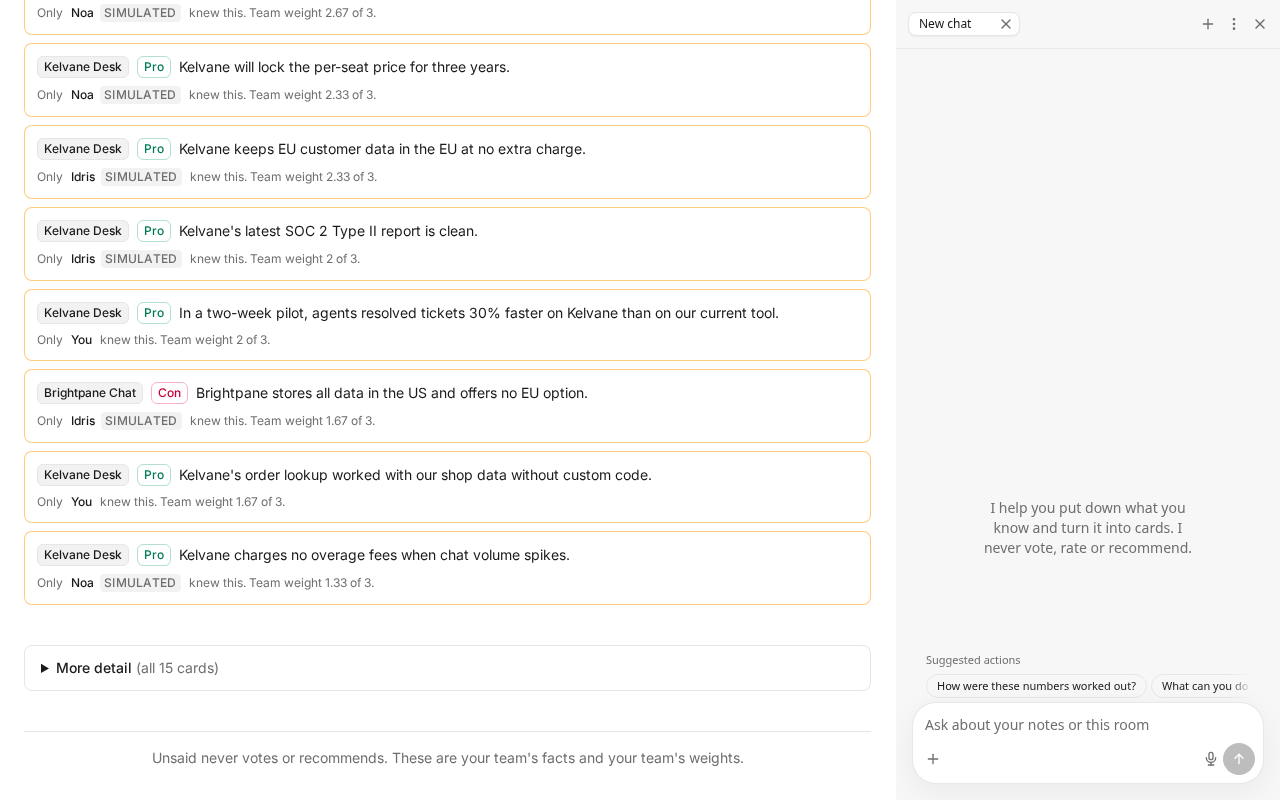
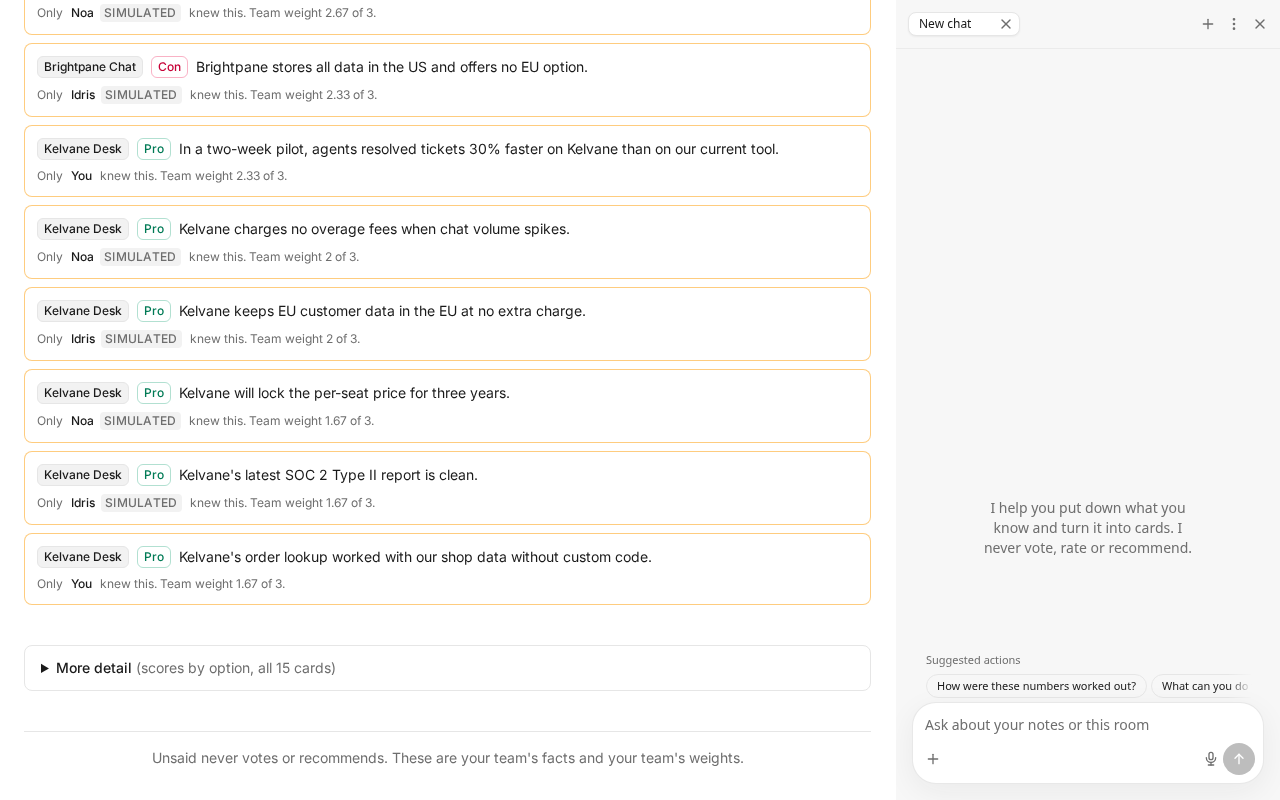
Reveal: move Scores by option into More detail
The proof grid above already shows the full-ledger scores, who leaned where and the votes; the table repeated them at full size. It now sits at the top of the closed More detail, whose summary says so. Every test id is kept. practice and live e2e open More detail before reading the table. Three README screenshots re-taken.

Claude-Session: https://claude.ai/code/session_01GAS3TwEvq8rdhgJTGSQMuH

diff --git a/app/components/unsaid/RevealPhase.tsx b/app/components/unsaid/RevealPhase.tsx
@@ -271,57 +271,11 @@ export function RevealPhase() {
   // The viewer's own column first, then the others in the room's order.
   const columns = [...rv.members].sort((a, b) => Number(b.id === v.id) - Number(a.id === v.id));
   const topShared = rv.sharedRanking.groups[0]?.options ?? [];
-  const inside = [alone && "alone check", guess && "guess who", rv.cards.length ? `all ${rv.cards.length} cards` : ""].filter(Boolean).join(", ");
+  const inside = ["scores by option", alone && "alone check", guess && "guess who", rv.cards.length ? `all ${rv.cards.length} cards` : ""].filter(Boolean).join(", ");
 
   return (
     <div className="space-y-10" data-testid="reveal">
       <ProofPanel rv={rv} />
-
-      <section aria-labelledby="scores-title">
-        <SectionTitle hint="One rule everywhere: a card counts +weight if it is a pro and -weight if it is a con, and its weight is the average of everyone's 0 to 3 rating.">
-          <span id="scores-title">Scores by option</span>
-        </SectionTitle>
-        <div className="overflow-x-auto rounded-lg border bg-card" tabIndex={0} role="region" aria-label="Scores">
-          <table className="w-full text-left text-sm" data-testid="scores-table">
-            <thead className="border-b bg-muted/50 text-xs text-muted-foreground">
-              <tr>
-                <th scope="col" className="px-4 py-3 font-medium">
-                  Option
-                </th>
-                <th scope="col" className="px-4 py-3 font-medium" data-testid="col-full">
-                  Full ledger
-                  <span className="block font-normal">all {rv.cards.length} cards</span>
-                </th>
-                {columns.map((m) => (
-                  <th key={m.id} scope="col" className="px-4 py-3 font-medium" data-testid={`col-own-${m.id}`}>
-                    <Who name={m.id === v.id ? "You" : m.name} simulated={m.simulated} className="text-foreground" /> alone
-                    <span className="block font-normal">
-                      own facts only, {m.cardCount} card{m.cardCount === 1 ? "" : "s"}
-                    </span>
-                  </th>
-                ))}
-                <th scope="col" className="px-4 py-3 font-medium">
-                  Final votes
-                </th>
-              </tr>
-            </thead>
-            <tbody className="divide-y">
-              {rv.options.map((o) => (
-                <tr key={o.id} data-testid={`row-${o.id}`}>
-                  <th scope="row" className="px-4 py-3 text-left align-top font-medium">
-                    <OptionTag options={options} id={o.id} />
-                  </th>
-                  <Cell score={o.fullScore} ranking={rv.fullRanking} optionId={o.id} />
-                  {columns.map((m) => (
-                    <Cell key={m.id} score={m.ownScores[o.id] ?? 0} ranking={m.ownRanking} optionId={o.id} />
-                  ))}
-                  <td className="px-4 py-3 align-top text-lg tabular-nums">{o.votes}</td>
-                </tr>
-              ))}
-            </tbody>
-          </table>
-        </div>
-      </section>
 
       <section aria-labelledby="picks-title">
         <SectionTitle hint="Sealed until now.">
@@ -392,48 +346,91 @@ export function RevealPhase() {
         </section>
       ) : null}
 
-      {inside ? (
-        <details className="rounded-lg border bg-card px-4 py-3 text-sm" data-testid="more-detail">
-          <summary className="cursor-pointer font-medium" data-testid="more-detail-summary">
-            More detail<span className="font-normal text-muted-foreground"> ({inside})</span>
-          </summary>
-          <div className="mt-4 space-y-8">
-            {alone ? <AloneCheck a={alone} /> : null}
-            {guess ? <GuessWho gw={guess} /> : null}
-            {rv.cards.length ? (
-              <section aria-labelledby="cards-title">
-                <SectionTitle>
-                  <span id="cards-title">All {rv.cards.length} cards with their team weights</span>
-                </SectionTitle>
-                <table className="w-full text-left text-sm">
-                  <thead className="text-xs text-muted-foreground">
-                    <tr>
-                      <th className="py-2 pr-3 font-medium">Option</th>
-                      <th className="py-2 pr-3 font-medium"> </th>
-                      <th className="py-2 pr-3 font-medium">Fact</th>
-                      <th className="py-2 pr-3 font-medium">Known by</th>
-                      <th className="py-2 font-medium">Team weight</th>
-                    </tr>
-                  </thead>
-                  <tbody className="divide-y">
-                    {rv.cards.map((c) => (
-                      <tr key={c.id}>
-                        <td className="py-2 pr-3 align-top">{nameOfOption(options, c.option)}</td>
-                        <td className="py-2 pr-3 align-top">{c.polarity === "pro" ? "Pro" : "Con"}</td>
-                        <td className="py-2 pr-3 align-top" dir="auto">{c.text}</td>
-                        <td className="py-2 pr-3 align-top">{c.holders.join(", ")}</td>
-                        <td className="py-2 align-top tabular-nums">
-                          {fmt(c.weight)} <span className="text-xs text-muted-foreground">({c.raters} rated)</span>
-                        </td>
-                      </tr>
+      <details className="rounded-lg border bg-card px-4 py-3 text-sm" data-testid="more-detail">
+        <summary className="cursor-pointer font-medium" data-testid="more-detail-summary">
+          More detail<span className="font-normal text-muted-foreground"> ({inside})</span>
+        </summary>
+        <div className="mt-4 space-y-8">
+          <section aria-labelledby="scores-title">
+            <SectionTitle hint="One rule everywhere: a card counts +weight if it is a pro and -weight if it is a con, and its weight is the average of everyone's 0 to 3 rating.">
+              <span id="scores-title">Scores by option</span>
+            </SectionTitle>
+            <div className="overflow-x-auto rounded-lg border bg-card" tabIndex={0} role="region" aria-label="Scores">
+              <table className="w-full text-left text-sm" data-testid="scores-table">
+                <thead className="border-b bg-muted/50 text-xs text-muted-foreground">
+                  <tr>
+                    <th scope="col" className="px-4 py-3 font-medium">
+                      Option
+                    </th>
+                    <th scope="col" className="px-4 py-3 font-medium" data-testid="col-full">
+                      Full ledger
+                      <span className="block font-normal">all {rv.cards.length} cards</span>
+                    </th>
+                    {columns.map((m) => (
+                      <th key={m.id} scope="col" className="px-4 py-3 font-medium" data-testid={`col-own-${m.id}`}>
+                        <Who name={m.id === v.id ? "You" : m.name} simulated={m.simulated} className="text-foreground" /> alone
+                        <span className="block font-normal">
+                          own facts only, {m.cardCount} card{m.cardCount === 1 ? "" : "s"}
+                        </span>
+                      </th>
                     ))}
-                  </tbody>
-                </table>
-              </section>
-            ) : null}
-          </div>
-        </details>
-      ) : null}
+                    <th scope="col" className="px-4 py-3 font-medium">
+                      Final votes
+                    </th>
+                  </tr>
+                </thead>
+                <tbody className="divide-y">
+                  {rv.options.map((o) => (
+                    <tr key={o.id} data-testid={`row-${o.id}`}>
+                      <th scope="row" className="px-4 py-3 text-left align-top font-medium">
+                        <OptionTag options={options} id={o.id} />
+                      </th>
+                      <Cell score={o.fullScore} ranking={rv.fullRanking} optionId={o.id} />
+                      {columns.map((m) => (
+                        <Cell key={m.id} score={m.ownScores[o.id] ?? 0} ranking={m.ownRanking} optionId={o.id} />
+                      ))}
+                      <td className="px-4 py-3 align-top text-lg tabular-nums">{o.votes}</td>
+                    </tr>
+                  ))}
+                </tbody>
+              </table>
+            </div>
+          </section>
+          {alone ? <AloneCheck a={alone} /> : null}
+          {guess ? <GuessWho gw={guess} /> : null}
+          {rv.cards.length ? (
+            <section aria-labelledby="cards-title">
+              <SectionTitle>
+                <span id="cards-title">All {rv.cards.length} cards with their team weights</span>
+              </SectionTitle>
+              <table className="w-full text-left text-sm">
+                <thead className="text-xs text-muted-foreground">
+                  <tr>
+                    <th className="py-2 pr-3 font-medium">Option</th>
+                    <th className="py-2 pr-3 font-medium"> </th>
+                    <th className="py-2 pr-3 font-medium">Fact</th>
+                    <th className="py-2 pr-3 font-medium">Known by</th>
+                    <th className="py-2 font-medium">Team weight</th>
+                  </tr>
+                </thead>
+                <tbody className="divide-y">
+                  {rv.cards.map((c) => (
+                    <tr key={c.id}>
+                      <td className="py-2 pr-3 align-top">{nameOfOption(options, c.option)}</td>
+                      <td className="py-2 pr-3 align-top">{c.polarity === "pro" ? "Pro" : "Con"}</td>
+                      <td className="py-2 pr-3 align-top" dir="auto">{c.text}</td>
+                      <td className="py-2 pr-3 align-top">{c.holders.join(", ")}</td>
+                      <td className="py-2 align-top tabular-nums">
+                        {fmt(c.weight)} <span className="text-xs text-muted-foreground">({c.raters} rated)</span>
+                      </td>
+                    </tr>
+                  ))}
+                </tbody>
+              </table>
+            </section>
+          ) : null}
+        </div>
+      </details>
 
       <p className="border-t pt-4 text-center text-sm text-muted-foreground" data-testid="disclaimer">
         {rv.disclaimer}
